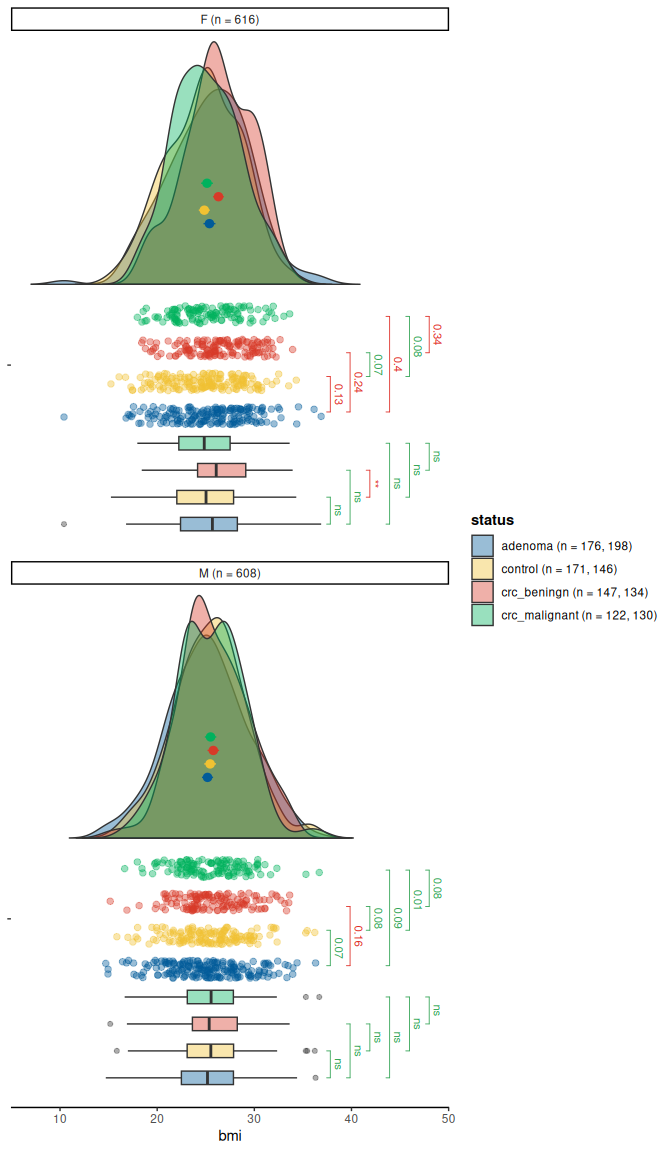
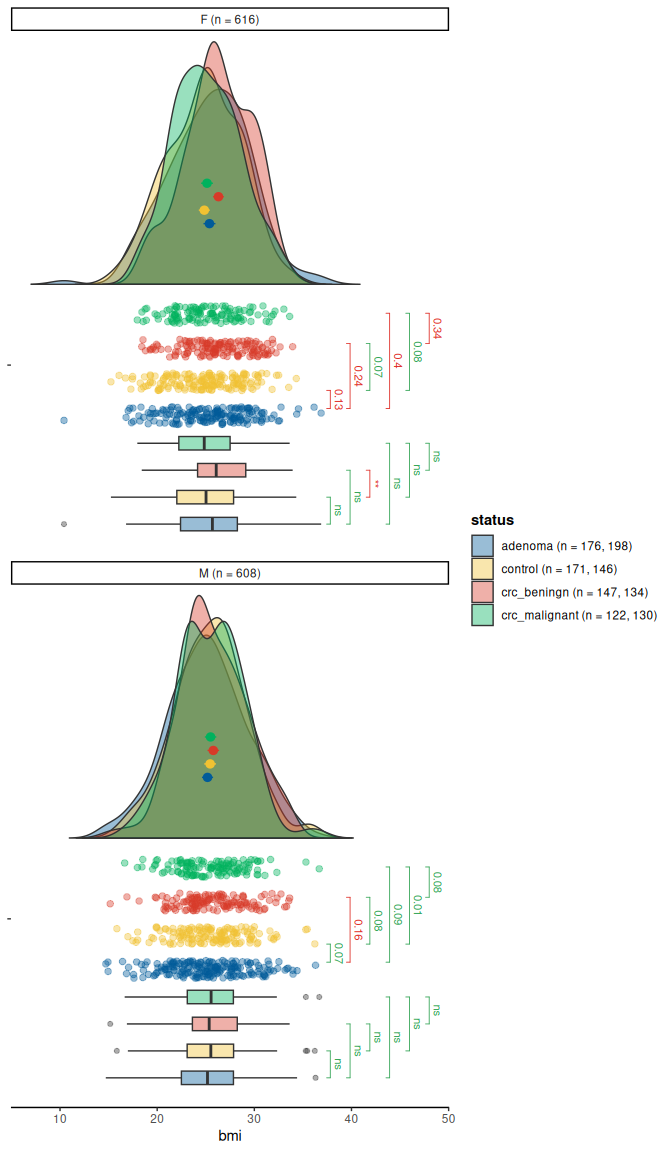
Updated figure

diff --git a/README.md b/README.md
@@ -171,30 +171,30 @@ balqual(matched_data,
 #> -------------------------------------------------- 
 #> Treatment                 | Before     | After      
 #> -------------------------------------------------- 
-#> adenoma                   | 355        | 171        
-#> control                   | 304        | 171        
-#> crc_beningn               | 278        | 171        
-#> crc_malignant             | 247        | 171        
+#> adenoma                   | 355        | 170        
+#> control                   | 304        | 170        
+#> crc_beningn               | 278        | 170        
+#> crc_malignant             | 247        | 170        
 #> -------------------------------------------------- 
 #> 
 #> 
 #> Matching summary statistics:
 #> ---------------------------------------- 
 #> Total n before matching:  1184 
-#> Total n after matching:       684 
-#> % of matched observations:    57.77 %
-#> Total  maximal   SMD value:   0.049 
+#> Total n after matching:       680 
+#> % of matched observations:    57.43 %
+#> Total  maximal   SMD value:   0.05 
 #> Total  maximal   r value:     0.002 
-#> Total  maximal   Var value:   1.1 
+#> Total  maximal   Var value:   1.092 
 #> 
 #> 
 #> Maximal values :
 #> -------------------------------------------------------------------------------- 
 #> Variable                  | Coef  | Before       | After        | Quality      
 #> -------------------------------------------------------------------------------- 
-#> bmi                       | SMD   | 0.259        | 0.049        | Balanced     
+#> bmi                       | SMD   | 0.259        | 0.050        | Balanced     
 #> bmi                       | r     | 0.010        | 0.002        | Balanced     
-#> bmi                       | Var   | 1.128        | 1.100        | Balanced     
+#> bmi                       | Var   | 1.128        | 1.092        | Balanced     
 #> sexF                      | SMD   | 0.153        | 0.012        | Balanced     
 #> sexF                      | r     | 0.006        | 0.001        | Balanced     
 #> sexF                      | Var   | 1.004        | 1.002        | Balanced     
@@ -204,7 +204,7 @@ balqual(matched_data,
 #> bmi:sexF                  | SMD   | 0.151        | 0.013        | Balanced     
 #> bmi:sexF                  | r     | 0.007        | 0.001        | Balanced     
 #> bmi:sexF                  | Var   | 1.046        | 1.004        | Balanced     
-#> bmi:sexM                  | SMD   | 0.151        | 0.022        | Balanced     
+#> bmi:sexM                  | SMD   | 0.151        | 0.016        | Balanced     
 #> bmi:sexM                  | r     | 0.006        | 0.001        | Balanced     
 #> bmi:sexM                  | Var   | 1.023        | 1.012        | Balanced     
 #> --------------------------------------------------------------------------------
